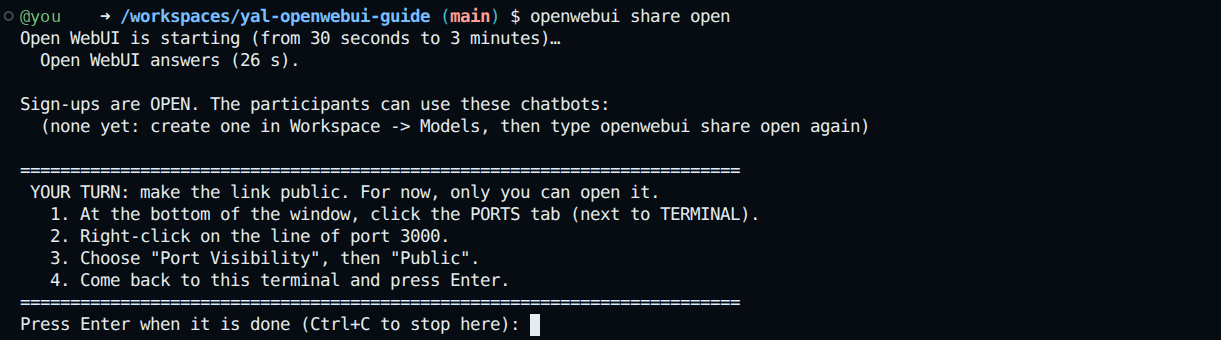
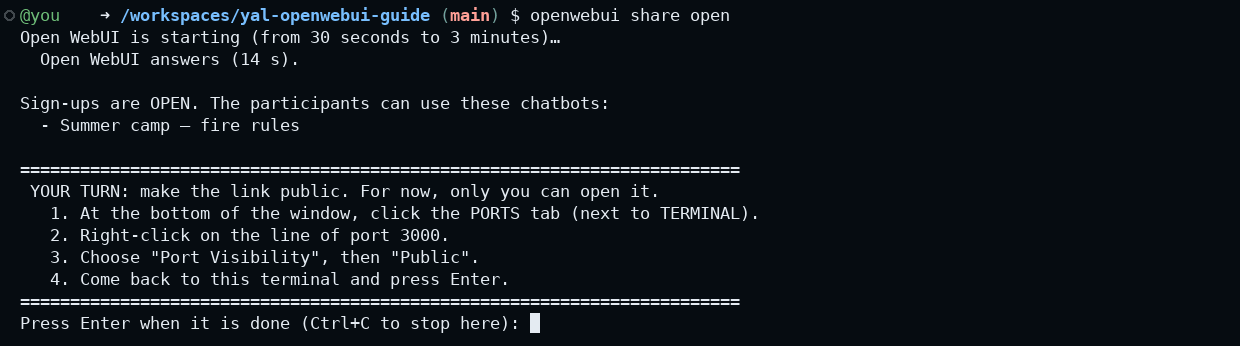
Guides Open WebUI et OpenCode : captures reprises d'après l'audit du 2026-10-30 (15 points) ; Open WebUI : terminal-start et terminal-your-turn refaites par guide-screenshots/terminal/ (pty + pyte, mot de passe masqué), liste Workspace → Models et mémoire (shots12, shots13, sans appel au modèle), Po

Changed region(s): [[0.0, 0.4706, 0.6224, 1.0], [0.0, 0.0294, 0.6224, 0.2059], [0.0, 0.2647, 0.7158, 0.4118]]

diff --git a/README.md b/README.md
@@ -214,7 +214,7 @@ next times, about **1 minute**. It ends with a frame like this one:
 ========================================================================
 ```
 
-![The terminal after the first openwebui start: the address, the e-mail and the password to sign in (the password is hidden here)](images/terminal-start.png)
+![The terminal after the first openwebui start (the download lines of the very first time are not shown): the address, the e-mail and the password to sign in (the password is hidden here)](images/terminal-start.png)
 
 **Copy the password now** into your password manager, or write it on paper. Then type `clear` and
 press Enter: the password disappears from the terminal. The command shows it only this first time,
@@ -518,8 +518,12 @@ question and the answer.
 **Memory can spoil your tests.** It is on by default, and it can carry notes from one chat to the
 next, with all your chatbots: a trap question can leave a note that changes the next answers.
 Before a round of tests, open your name at the bottom left → **Settings** → **Personalization**, and
-delete the saved memories (**Remove** on each one, or **Actions** → **Clear memory**). Do the same
-in your test account.
+delete the **Saved Memories**: **Remove** on each one, or **Actions** → **Clear memory**. Each time,
+click **Confirm** in the box that opens. Do the same in your test account.
+
+![Settings → Personalization: (1) the tab Personalization, (2) Remove, at the right of each saved memory](images/memory-settings.png)
+
+![The menu of the saved memories: (3) Actions, (4) Clear memory](images/memory-actions.png)
 
 **For an activity or project chatbot**, also test the three levels of help. This time, stay in the
 **same chat**: ask a question, then say "I still don't understand" twice. Each answer should go
@@ -554,7 +558,9 @@ project, selected together, saves you from uploading the same documents twice.
 **What the participants see.** Everyone who signs up sees **all your active chatbots**, in the list
 of models of the message box. Start each name with the topic or the group, and turn off the switch
 of a chatbot that is not ready, in **Workspace → Models**. To start a new chatbot from an existing
-one, open its menu in the same list and choose **Clone**.
+one, open its menu **…** in the same list and choose **Clone**.
+
+![Workspace → Models with three chatbots, one switched off: (1) Create, (2) "Try in chat", the label of the small arrow next to a name, (3) the switch of a chatbot, here off, (4) the menu … of a chatbot, (5) Clone in this menu](images/models-list.png)
 
 **Several groups or courses.** All your groups share this one Open WebUI, and every account sees
 every active chatbot, also the accounts made by another group in an earlier session. Before each
@@ -646,25 +652,28 @@ The command lets the participants sign up, and gives them access to your active 
 their documents. Then it makes sure the link can be opened from outside.
 
 Open WebUI uses the **port 3000**: think of it as its door to the internet. For now, only you can
-open it. If the command cannot open it by itself, it shows a frame "YOUR TURN". Do what it says:
+open it. If the command cannot open it by itself, it shows a frame "YOUR TURN". Do what it says
+(in VS Code, the tabs are called **Ports** and **Terminal**):
 
-![The terminal after openwebui share open: sign-ups are open, and the frame "YOUR TURN" gives the four steps](images/terminal-your-turn.png)
+![The terminal after openwebui share open: sign-ups are open, the list of the chatbots the participants can use, and the frame "YOUR TURN" with the four steps](images/terminal-your-turn.png)
 
-1. At the bottom of the window, click the **PORTS** tab, next to TERMINAL
-2. Right-click on the line of port **3000**
+1. At the bottom of the window, click the **Ports** tab, next to **Terminal**
+2. Right-click on the line **Open WebUI** (port 3000)
 3. Choose **Port Visibility**, then **Public**
 4. Come back to the terminal and press **Enter**
 
-![The PORTS tab: (1) the tab, (2) a right-click on the line of port 3000, (3) Port Visibility, then Public](images/ports-menu.png)
+![The Ports tab: (1) the tab, (2) a right-click on the line Open WebUI (port 3000), (3) Port Visibility, then Public](images/ports-menu.png)
 
 The command checks and answers "Done: port 3000 is now public". It then shows **the link and a
 QR code**: project them.
 
-![The terminal shows "Done: port 3000 is now public", the link for the participants and its QR code](images/terminal-link-qr.png) The participants open the link or scan the code, and see a **warning page
-from GitHub**: they click **Continue**. On the sign-in page, they click **Sign up**, under the form.
-As name, a first name or a nickname, never their full name; as e-mail, a nickname and a number, for
-example `alex7@group.local` (each e-mail can be used only once); and a new password, which they need
-again next time. Then they choose your chatbot in the message box (bottom right), and chat.
+![The terminal shows "Done: port 3000 is now public", the link for the participants and its QR code](images/terminal-link-qr.png)
+
+The participants open the link or scan the code, and see a **warning page from GitHub**: they click
+**Continue**. On the sign-in page, they click **Sign up**, under the form. As name, a first name or a
+nickname, never their full name; as e-mail, a nickname and a number, for example `alex7@group.local`
+(each e-mail can be used only once); and a new password, which they need again next time. Then they
+choose your chatbot in the message box (bottom right), and chat.
 
 ![The warning page of GitHub that the participants see first: they click Continue](images/github-warning.png)
 
@@ -902,7 +911,8 @@ Open it again from <https://github.com/codespaces>, then type `openwebui start` 
 
 ### The address does not open for you
 
-In the **PORTS** tab, on the line of port 3000, click the globe icon (**Open in Browser**).
+In the **Ports** tab, on the line **Open WebUI** (port 3000), click the globe icon (**Open in
+Browser**). The picture of this tab is in [part 5, During the session](#during-the-session).
 
 ### All my chatbots are gone
 
